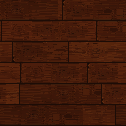
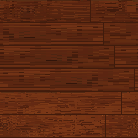
Furniture wood laid as furniture, trophy outlines on the backings, sheet ink and paper. Furniture: every board runs the tile's whole length (one stretched painted plank per row, one join per row) with joins a darker shade of the wood instead of black gaps, so cabinets no longer read as brickwork; wo

diff --git a/Tools/furniture_wood.py b/Tools/furniture_wood.py
@@ -1,13 +1,16 @@
-"""Room furniture wood: square tiling textures of real painted planks, made like the bedroom's tabletop (planks cut out
-of a painting in Temp/Paint/Room/gen and laid end to end in rows with a dark gap). Each kind of wood has its own
-painting, colour, plank width and board length, so the pieces in the room don't all look alike; each also has a
-lighter "fronts" grade for doors and drawers. Planks run along u; RoomTiles projects them along each piece's long side
-at the room's 6.4 texels per unit.
+"""Room furniture wood: square tiling textures of real painted boards, cut out of a painting in Temp/Paint/Room/gen
+like the bedroom's tabletop, but laid as furniture is built rather than as a floor: every board runs the tile's whole
+length (one end join per row, somewhere along it, so no brickwork of short planks), and the joins between boards are
+a darker shade of the wood, not black gaps. Each kind of wood has its own painting, colour and board width, so the
+pieces in the room don't look alike; each also has a clearly lighter "fronts" grade for doors and drawers. Boards run
+along u; RoomTiles projects them along each piece's long side at the room's 6.4 texels per unit.
 
     python Tools/furniture_wood.py [out dir]
 """
 import importlib.util
 import random
+
+import numpy as np
 import sys
 from pathlib import Path
 
@@ -19,19 +22,41 @@ spec.loader.exec_module(rs)
 sys.argv = argv
 rs.OUT = Path(sys.argv[1] if len(sys.argv) > 1 else "Assets/Game/World/Art/Bedroom/Furniture")
 
-# name: painting, block size down to texels, grade (saturation, brightness, tint), plank width in texels, rows
+# name: painting, block size down to texels, grade (saturation, brightness, tint), board width in texels, rows
 WOODS = {
-    "Walnut":   ("Table_top", 8, (.80, .62, (1.00, .93, .88)), 16, 7),   # dark, cool brown (wardrobe)
-    "Cherry":   ("Table_top", 8, (1.05, .78, (1.06, .88, .80)), 12, 9),  # red-brown, narrow boards (cabinets, nightstand)
-    "Smoked oak": ("Floorboards", 5, (.55, .55, (.95, .92, .90)), 14, 8),  # grey-brown, weathered (hobby desk)
-    "Mahogany": ("Table_top", 8, (1.10, .58, (1.12, .82, .78)), 20, 6),  # deep red, broad boards (the DM's chair)
+    "Walnut":   ("Table_top", 8, (.60, .80, (.98, .94, .92)), 18, 7),   # chocolate brown, cool (wardrobe)
+    "Cherry":   ("Table_top", 8, (.90, .92, (1.04, .88, .76)), 16, 8),  # brown cherry, warm (cabinets, nightstand)
+    "Smoked oak": ("Floorboards", 5, (.35, .78, (.97, .96, .95)), 18, 7),  # grey-brown, weathered (hobby desk)
+    "Mahogany": ("Table_top", 8, (1.00, .85, (1.10, .84, .78)), 22, 6),  # red-brown, broad boards (the DM's chair, the trophy backings)
 }
-FRONTS = 1.22   # doors and drawers: the same wood, a lighter grade
+FRONTS = 1.6    # doors and drawers: the same wood, a clearly lighter grade (it must still show under the room's light)
+JOIN = .62      # the line between two boards: the wood itself, this much darker
+
+
+
+def long_boards(pieces, join, plank, size, rows, rng, tone=.05):
+    """Rows of single boards, each one painted plank drawn out along its grain to the whole row (grain is long, so
+    stretching it along x keeps it wood), ends trimmed so no painted end shading shows; one join per row, at the
+    tile's wrap, turned to land anywhere along the row."""
+    out = np.zeros((rows * (plank + 1), size, 3), np.float32)
+    for r in range(rows):
+        p = rs.fit_height(pieces[rng.randrange(len(pieces))], plank)[:, 3:-3]
+        if rng.random() < .5:
+            p = p[:, ::-1]
+        idx = np.minimum((np.arange(size - 1) * p.shape[1] / (size - 1)).astype(int), p.shape[1] - 1)
+        row = np.concatenate([p[:, idx], np.broadcast_to(join, (plank, 1, 3))], axis=1)
+        row = np.roll(row * (1 + (rng.random() - .5) * 2 * tone), rng.randrange(size), axis=1)
+        y = r * (plank + 1)
+        out[y:y + plank] = row
+        out[y + plank] = join
+    return out
+
 
 rng = random.Random(5)
 for name, (src, block, (sat, bright, tint), plank, rows) in WOODS.items():
     base = rs.down(rs.load(src), block)
     size = rows * (plank + 1)
     for suffix, b in (("", bright), (" fronts", bright * FRONTS)):
-        pieces, gap, _ = rs.plank_pieces(rs.grade(base, sat=sat, bright=b, tint=tint))
-        rs.save(rs.lay_rows(pieces, gap, plank, size, rows, rng, min_len=size // 2, max_len=size, tone=.07), f"Wood {name.lower()}{suffix}")
+        pieces, _, _ = rs.plank_pieces(rs.grade(base, sat=sat, bright=b, tint=tint))
+        join = np.median(np.concatenate([p.reshape(-1, 3) for p in pieces]), axis=0) * JOIN
+        rs.save(long_boards(pieces, join, plank, size, rows, rng), f"Wood {name.lower()}{suffix}")

diff --git a/Assets/Game/Progression/Scripts/TrophyWall.cs b/Assets/Game/Progression/Scripts/TrophyWall.cs
@@ -23,7 +23,7 @@ public class TrophyWall : MonoBehaviour, IInteractable
     [Tooltip("The faint outline an empty mount shows (a transparent unlit material).")] public Material outlineMaterial;
     [Min(.1f), Tooltip("A trophy's longest side, in room units (the room is ~22 units to the metre).")] public float trophySize = 7f;
     [Tooltip("Long trophies (swords, maces, knives) hang at this angle.")] public float longTilt = 45f;
-    [Tooltip("How far out from the mount (the plaque's front is at 0.7) a trophy's back rests.")] public float restOffset = 1f;
+    [Tooltip("How far in front of the mount's face (its backing) a trophy's back rests.")] public float restGap = .3f;
     [Tooltip("SFX Library key played as the trophies go up.")] public string hangKey = "trophyHang";
     public AudioClip hangClip;
 
@@ -137,14 +137,15 @@ public class TrophyWall : MonoBehaviour, IInteractable
         float across = Mathf.Max(size.x, size.y) + size.z;
         go.transform.localScale = Vector3.one * (trophySize / Mathf.Max(.0001f, across));
         go.transform.position += anchor.position - Measure(renderers).Value.center;
-        // Its back rests just off the plaque.
+        // Its back rests just off the mount's face (the backing behind it, however thick).
         if (anchor.parent != null)
         {
-            var b = Measure(renderers).Value;
             var outward = anchor.parent.forward;
-            float depth = Mathf.Abs(outward.x) * b.extents.x + Mathf.Abs(outward.y) * b.extents.y + Mathf.Abs(outward.z) * b.extents.z;
-            float back = Vector3.Dot(b.center - anchor.parent.position, outward) - depth;
-            go.transform.position += outward * (restOffset - back);
+            float back = Reach(Measure(renderers).Value, anchor.parent.position, -outward);
+            float face = 0f;
+            foreach (var r in anchor.parent.GetComponentsInChildren<Renderer>())
+                if (!r.transform.IsChildOf(go.transform)) face = Mathf.Max(face, Reach(r.bounds, anchor.parent.position, outward));
+            go.transform.position += outward * (face + restGap + back);
         }
         return go;
     }
@@ -168,6 +169,10 @@ public class TrophyWall : MonoBehaviour, IInteractable
         }
         return weight > 0f && sum / weight < 0f;
     }
+
+    // How far the bounds reach from `origin` along `dir`.
+    static float Reach(Bounds b, Vector3 origin, Vector3 dir) =>
+        Vector3.Dot(b.center - origin, dir) + Mathf.Abs(dir.x) * b.extents.x + Mathf.Abs(dir.y) * b.extents.y + Mathf.Abs(dir.z) * b.extents.z;
 
     static Bounds? Measure(Renderer[] renderers)
     {

diff --git a/Tools/meta_sheet_sprites.py b/Tools/meta_sheet_sprites.py
@@ -50,8 +50,10 @@ for _ in range(14):
     cy, cx, r = prng.integers(0, H), prng.integers(0, W), prng.uniform(1.5, 5)
     fox += np.exp(-((y - cy) ** 2 + (x - cx) ** 2) / (2 * r * r)) * prng.uniform(.4, 1)
 shade = np.clip(1 - edge / 42, 0, 1) ** 1.6
-lum = 1.8 * fine + 2.4 * streak + 1.2 * cross + 1 * fibre + 1.1 * laid + 3 * tone + 3.6 * mottle - 14 * shade - 12 * fox
-rgb = np.clip(base[None, None, :] - 6 + lum[..., None] - (shade[..., None] + fox[..., None] * .8) * np.array([0, 2, 5])[None, None, :], 0, 255)
+# Twice the grain of the first pass (QA, 2026-10-15: barely visible at 1080p); a little darker base so the light
+# fibres don't clip at white.
+lum = 3.4 * fine + 4.8 * streak + 2.4 * cross + 2 * fibre + 2.2 * laid + 4.5 * tone + 6.5 * mottle - 16 * shade - 14 * fox
+rgb = np.clip(base[None, None, :] - 11 + lum[..., None] - (shade[..., None] + fox[..., None] * .8) * np.array([0, 2, 5])[None, None, :], 0, 255)
 
 
 def wander(n):

diff --git a/Assets/Game/UI/Scripts/CharacterSheetUI.cs b/Assets/Game/UI/Scripts/CharacterSheetUI.cs
@@ -43,7 +43,7 @@ public class CharacterSheetUI : Singleton<CharacterSheetUI>
     [SerializeField] TMP_Text tipTitle, tipBody;
     [Header("Look")]
     [SerializeField] Sprite bubbleFilled, bubbleOutline, bubbleDashed, portraitPlaceholder;
-    [SerializeField] Color ink = new(.17f, .15f, .14f), pen = new(.18f, .31f, .6f), faint = new(.47f, .45f, .42f), poor = new(.6f, .58f, .55f);
+    [SerializeField] Color ink = new(.17f, .15f, .14f), pen = new(.58f, .16f, .12f), faint = new(.47f, .45f, .42f), poor = new(.6f, .58f, .55f);
     [SerializeField, Min(.5f)] float feedbackSeconds = 3f;
 
     bool open;

diff --git a/Assets/Game/Core/Scripts/Editor/MetaProgressionSetup.Room.cs b/Assets/Game/Core/Scripts/Editor/MetaProgressionSetup.Room.cs
@@ -186,7 +186,7 @@ public static partial class MetaProgressionSetup
         mat.SetInt("_ZWrite", 0);
         mat.EnableKeyword("_SURFACE_TYPE_TRANSPARENT");
         mat.renderQueue = (int)UnityEngine.Rendering.RenderQueue.Transparent;
-        mat.SetColor("_BaseColor", new Color(.12f, .09f, .07f, .38f));
+        mat.SetColor("_BaseColor", new Color(.93f, .86f, .74f, .13f));   // a faint chalk mark on the wood backing
         AssetDatabase.CreateAsset(mat, path);
         return mat;
     }
